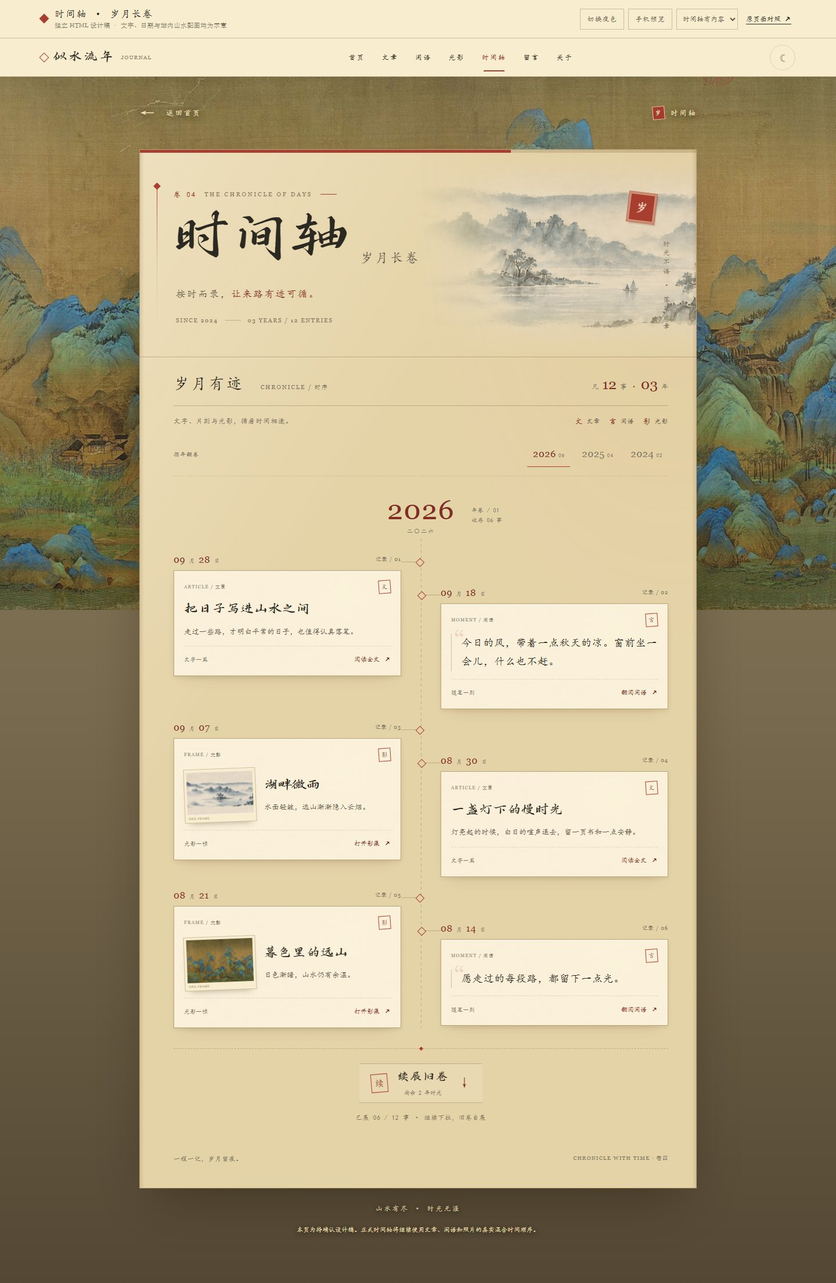
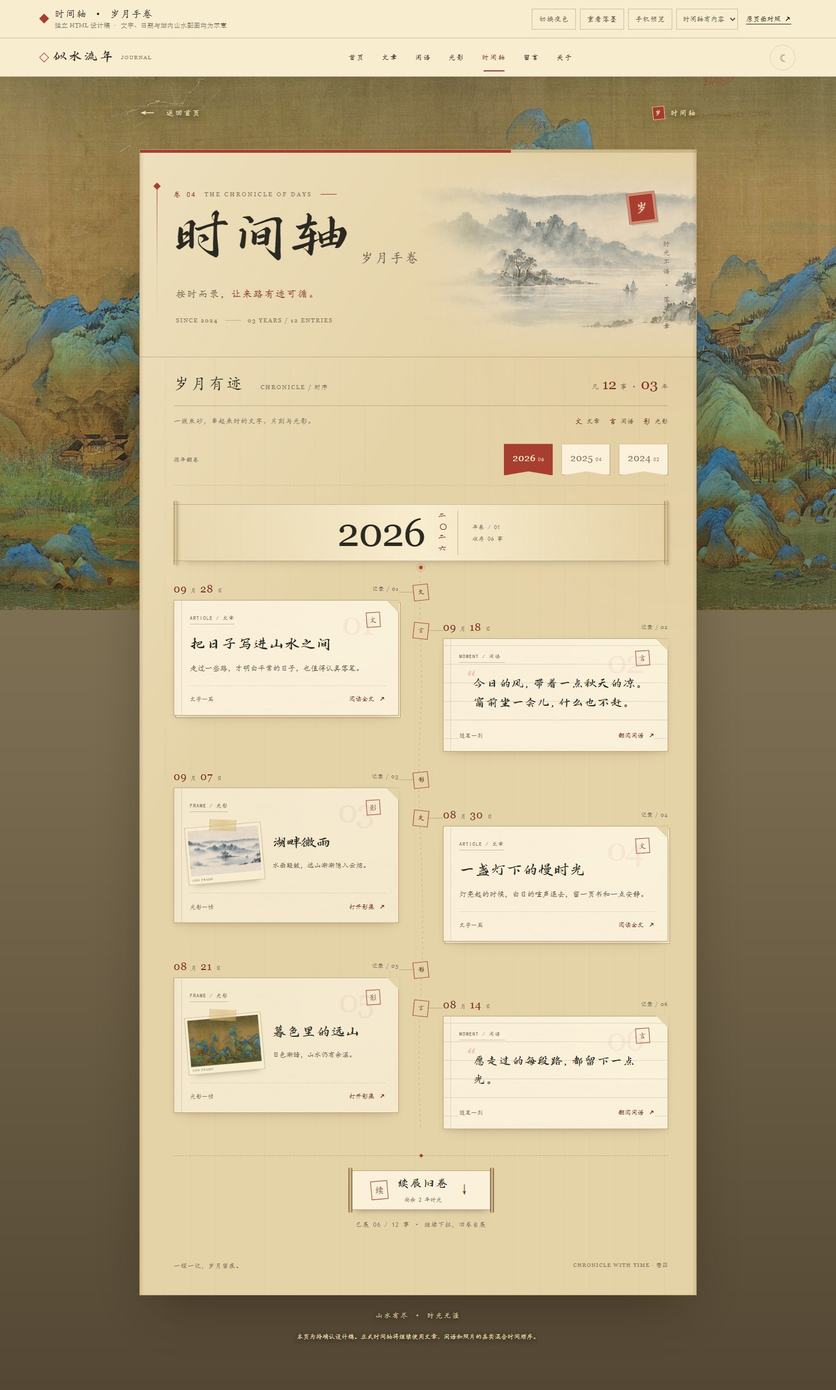
design(timeline): craft animated years handscroll

diff --git a/effect-preview/timeline-years-scroll-v1.html b/effect-preview/timeline-years-scroll-v1.html
@@ -1,5 +1,5 @@
 <!doctype html>
-<html lang="zh-CN" data-theme="light"><head><meta charset="utf-8"><meta name="viewport" content="width=device-width,initial-scale=1"><title>时间轴 · 岁月长卷设计稿</title><link rel="icon" href="data:,"><style>
+<html lang="zh-CN" data-theme="light"><head><meta charset="utf-8"><meta name="viewport" content="width=device-width,initial-scale=1"><title>时间轴 · 岁月手卷设计稿</title><link rel="icon" href="data:,"><style>
 
     @import url("../public/fonts/hongleixingshu/font.css");
     :root {
@@ -261,17 +261,123 @@ dialog {border:0;}
  .lightbox {padding:12px 15px max(18px,env(safe-area-inset-bottom));}.lightbox-view {padding:20px 0;}.lightbox-bottom {align-items:flex-start;flex-direction:column;gap:12px;}.lightbox-step {align-self:center;}.lightbox-caption {font-size:13px;}
 }
 @media (prefers-reduced-motion:reduce) {html {scroll-behavior:auto;}*,*::before,*::after {transition:none!important;animation:none!important;}.photo-open:hover {transform:rotate(-3deg);}}
-</style></head><body><div class="preview-bar"><div class="preview-title"><span class="preview-mark" aria-hidden="true"></span><div><strong>时间轴 · 岁月长卷</strong><small>独立 HTML 设计稿 · 文字、日期与站内山水配图均为示意</small></div></div><div class="preview-controls" aria-label="设计稿查看工具"><button id="theme-button" type="button" aria-pressed="false">切换夜色</button><button id="size-button" type="button" aria-pressed="false">手机预览</button><label class="sr-only" for="state-select">演示页面状态</label><select id="state-select"><option value="ready">时间轴有内容</option><option value="empty">整页无记录</option><option value="error">首次载入失败</option><option value="loading">正在整理时序</option><option value="more-loading">旧卷展开中</option><option value="broken">图片加载失败</option></select><a href="screenshots/timeline-before-desktop.jpg" target="_blank" rel="noopener">原页面对照 ↗</a></div></div>
+/* 岁月手卷：纸页、手札与夹藏相纸，共用年卷与朱砂线。 */
+.hero {overflow:hidden;}
+.hero-copy {animation:hero-settle 1s var(--ease) both;}
+.hero-art {animation:mountain-unroll 1.6s var(--ease) both;}
+.hero-stamp {animation:stamp-fall 1.1s var(--ease) both;}
+@keyframes hero-settle {from {opacity:0;transform:translateY(18px);}to {opacity:1;transform:none;}}
+@keyframes mountain-unroll {from {opacity:0;clip-path:inset(0 100% 0 0);}to {opacity:.65;clip-path:inset(0);}}
+@keyframes stamp-fall {0%,48% {opacity:0;transform:rotate(-11deg) scale(1.3);}70% {opacity:1;transform:rotate(-7deg) scale(.94);}100% {opacity:1;transform:rotate(-7deg) scale(1);}}
+.collection {background:linear-gradient(90deg,#7654280a 1px,transparent 1px) 0 0/43px 100%;}
+.year-index {padding-top:4px;padding-bottom:17px;gap:15px;}
+.year-index button {position:relative;padding:12px 14px 17px;min-width:84px;min-height:54px;background:var(--record-paper);border:1px solid var(--record-border);box-shadow:0 5px 9px -7px #2b201ab3;clip-path:polygon(0 0,100% 0,100% 100%,50% calc(100% - 7px),0 100%);transition:transform .4s var(--ease),background .4s,color .4s;}
+.year-index button[aria-current="true"] {background:var(--seal);color:#fff0d2;border-color:var(--seal);}
+.year-index button[aria-current="true"] small {color:#fff0d2;opacity:.8;}
+.year-index button:hover {transform:translateY(-4px);}
+.chronicle {--ink-progress:0;--ink-length:0px;--thread-top:138px;padding-top:32px;}
+.chronicle::before {display:none;}
+.ink-thread {position:absolute;left:calc(50% - 34px);top:var(--thread-top);width:68px;height:calc(100% - var(--thread-top));overflow:visible;pointer-events:none;z-index:-1;}
+.ink-thread path {fill:none;vector-effect:non-scaling-stroke;}
+.thread-base {stroke:var(--line);stroke-width:1;stroke-dasharray:3 6;}
+.thread-ink {stroke:var(--seal);stroke-width:1.7;stroke-dasharray:1;stroke-dashoffset:calc(1 - var(--ink-progress));opacity:.65;}
+.ink-pearl {position:absolute;left:calc(50% - 3px);top:calc(var(--thread-top) + var(--ink-length));width:6px;height:6px;background:var(--seal);box-shadow:0 0 0 5px color-mix(in srgb,var(--seal) 9%,transparent);border-radius:50%;pointer-events:none;z-index:0;}
+.year-group {margin-bottom:45px;}
+.year-heading {isolation:isolate;justify-content:center;gap:0;min-height:98px;margin-bottom:37px;border-top:1px solid var(--line);border-bottom:1px solid var(--line);background:linear-gradient(90deg,transparent,var(--paper-bright),transparent);box-shadow:0 9px 19px -19px #302719;}
+.year-heading::before,.year-heading::after {position:absolute;top:-7px;bottom:-7px;width:7px;content:"";background:linear-gradient(90deg,#71552f80,#d6ba8070,#71552f65);border-radius:2px;box-shadow:2px 2px 4px #382c2426;}
+.year-heading::before {left:0;}.year-heading::after {right:0;}
+.year-heading .year-number {flex-direction:row;gap:19px;background:transparent;padding:5px 18px;}
+.year-heading b {font-size:68px;letter-spacing:-.02em;color:var(--ink);}
+.year-heading small {writing-mode:vertical-rl;font:14px/1.4 var(--brush);color:var(--seal-dark);letter-spacing:.17em;margin:0;padding-right:18px;border-right:1px solid var(--line);}
+.year-heading .year-note {position:static;font:10px/2 var(--kai);margin:0 20px 0 6px;}
+.year-heading::selection {background:var(--seal);}
+.events {grid-template-columns:minmax(0,1fr) 76px minmax(0,1fr);gap:32px 0;}
+.entry:nth-child(even) {margin-top:66px;}
+.entry::after {display:none;}
+.entry::before {right:-38px;width:38px;top:16px;transform-origin:right;transition:background .4s;}
+.entry:nth-child(even)::before {left:-38px;}
+.axis-mark {position:absolute;right:-51px;top:3px;display:grid;place-items:center;width:26px;height:28px;background:var(--paper);border:1px solid var(--seal);color:var(--seal-dark);font:12px var(--brush);transform:rotate(-6deg);z-index:2;transition:transform .55s var(--ease),background .4s,color .4s,box-shadow .4s;}
+.entry:nth-child(even) .axis-mark {right:auto;left:-51px;transform:rotate(6deg);}
+.axis-mark::after {position:absolute;inset:-1px;content:"";border:1px solid var(--seal);opacity:0;pointer-events:none;}
+.entry.ink-read .axis-mark {background:var(--seal);color:#fff0d2;}
+.record {padding:20px 22px 12px 27px;border-color:var(--record-border);transform-origin:center;transition:transform .55s var(--ease),box-shadow .55s,border-color .35s;}
+.record::after {position:absolute;top:0;left:12px;bottom:0;width:1px;content:"";background:var(--line-soft);pointer-events:none;}
+.record::before {opacity:.23;background:radial-gradient(ellipse 180px 160px at var(--mx,80%) var(--my,20%),var(--card-spot),transparent 75%),linear-gradient(90deg,#6a47231c,transparent 13px),var(--fiber);background-size:auto,auto,220px auto;}
+.record-kicker {position:relative;z-index:1;margin-bottom:14px;align-items:center;min-height:24px;}
+.record-kicker > span {font:9px var(--kai);letter-spacing:.13em;padding-bottom:5px;border-bottom:1px solid var(--line);}
+.record-kicker i {width:24px;height:26px;font-size:13px;margin-right:9px;}
+.record-ordinal {position:absolute;right:44px;top:6px;font:58px Georgia,serif;letter-spacing:-.06em;color:var(--seal);opacity:.055;pointer-events:none;}
+.paper-corner {position:absolute;right:-1px;top:-1px;width:21px;height:21px;background:linear-gradient(225deg,var(--paper) 48%,var(--record-border) 49%,var(--paper-bright) 52%,var(--paper-deep) 90%);clip-path:polygon(0 0,100% 100%,100% 0);z-index:2;transition:width .5s var(--ease),height .5s var(--ease),filter .5s;pointer-events:none;}
+.record h3 {font-size:27px;line-height:1.35;}
+.record p {font-size:13px;line-height:1.9;}
+.record-foot {margin-top:16px;}
+.entry-post .record {box-shadow:var(--record-shadow),3px 4px 0 -1px var(--paper-bright),3px 4px 0 var(--record-border);}
+.entry-post .record-body {padding-right:7px;}
+.entry-moment .record {background-image:repeating-linear-gradient(0deg,transparent 0 31px,var(--line-soft) 31px 32px);background-position:0 10px;}
+.entry-moment .record-kicker > span {background:var(--record-paper);padding-right:8px;}
+.moment-quote {border:0;padding:3px 0 7px 24px;}
+.moment-quote::before {top:-14px;left:-7px;z-index:0;font:57px var(--brush);opacity:.22;}
+.record .moment-quote p {position:relative;font:21px/1.55 var(--brush);letter-spacing:.08em;}
+.entry-moment .record-foot {border:0;background:var(--record-paper);margin-top:9px;padding-top:7px;}
+.entry-photo .record {background:color-mix(in srgb,var(--record-paper) 82%,var(--paper-deep));}
+.photo-open {width:132px;margin:3px 2px 2px -6px;transform:rotate(-5deg);}
+.photo-open::before {position:absolute;left:calc(50% - 22px);top:-10px;width:44px;height:19px;content:"";background:linear-gradient(90deg,#d5b87970,#d5b879a0,#d5b87970);border-left:1px dashed #96734460;border-right:1px dashed #96734460;transform:rotate(7deg);z-index:1;pointer-events:none;}
+.entry-photo .record h3 {font-size:25px;}.entry-photo .record p {font-size:12px;}
+.entry-meta time {font-size:18px;}.entry-meta > span {letter-spacing:.15em;}
+.unfold-button {position:relative;min-width:245px;background:var(--record-paper);border:1px solid var(--record-border);box-shadow:0 8px 12px -10px #2b201a90;}
+.unfold-button::before,.unfold-button::after {position:absolute;top:-6px;bottom:-6px;content:"";width:7px;border-radius:3px;background:linear-gradient(90deg,#785d35,#dec598,#785d35);}
+.unfold-button::before {left:-4px;}.unfold-button::after {right:-4px;}
+.unfold-button:hover .unfold-arrow {animation:unfold-tug 1s var(--ease) 2;}
+@keyframes unfold-tug {50% {transform:translateY(6px);}}
+.entry.ink-reveal {animation:paper-arrive .8s var(--ease) both;}
+@keyframes paper-arrive {from {opacity:0;transform:perspective(900px) translateY(28px) rotateX(-9deg);clip-path:inset(0 0 22% 0);}to {opacity:1;transform:none;clip-path:inset(0);}}
+.entry:focus-within .axis-mark {background:var(--seal);color:#fff0d2;transform:rotate(0deg);box-shadow:0 0 0 5px color-mix(in srgb,var(--seal) 10%,transparent);}
+.entry:focus-within .record-kicker i {color:#fff0d2;}
+.entry:focus-within .paper-corner {width:33px;height:33px;}
+@media (hover:hover) and (pointer:fine) {
+ .entry:hover .record {transform:perspective(1000px) translateY(-6px) rotateX(var(--rx,0deg)) rotateY(var(--ry,0deg));box-shadow:0 18px 25px -13px #33231159,3px 5px 0 -1px var(--paper-bright),3px 5px 0 var(--record-border);}
+ .entry:hover .axis-mark {background:var(--seal);color:#fff0d2;transform:rotate(0deg) scale(1.06);box-shadow:0 0 0 5px color-mix(in srgb,var(--seal) 10%,transparent);}
+ .entry:hover .record-kicker i {color:#fff0d2;}
+ .entry:hover .axis-mark::after {animation:seal-ripple .8s ease-out;}
+ .entry:hover::before {background:var(--seal);}
+ .entry:hover .paper-corner {width:38px;height:38px;filter:drop-shadow(-2px 3px 2px #54381326);}
+ .photo-open:hover {transform:translateY(-4px) rotate(1deg) scale(1.04);}
+ @keyframes seal-ripple {from {opacity:.55;transform:scale(.9);}to {opacity:0;transform:scale(2);}}
+}
+@container (max-width:850px) {
+ .events {padding-left:48px;}.entry,.entry:nth-child(even) {margin:0 0 32px;}
+ .ink-thread {left:-21px;}.ink-pearl {left:10px;}
+ .entry::before,.entry:nth-child(even)::before {left:-35px;width:35px;}
+ .axis-mark,.entry:nth-child(even) .axis-mark {right:auto;left:-48px;}
+ .year-heading {margin-left:0;justify-content:flex-start;}.year-heading .year-number {padding-left:22px;}
+ .photo-open {width:160px;}
+}
+@container (max-width:550px) {
+ .hero-art {animation-name:mountain-mobile;}
+ .year-index {gap:8px;}.year-index > span {width:100%;}.year-index button {min-width:70px;min-height:50px;padding:10px 10px 17px;}
+ .chronicle {--thread-top:125px;padding-top:28px;}.year-heading {min-height:83px;margin-bottom:30px;}.year-heading b {font-size:51px;}.year-heading small {font-size:12px;padding-right:12px;}.year-heading .year-number {gap:12px;padding-left:17px;}.year-heading .year-note {font-size:9px;margin-left:0;margin-right:8px;}
+ .events {padding-left:26px;}.entry,.entry:nth-child(even) {margin-bottom:30px;}.ink-thread {left:-29px;}.ink-pearl {left:2px;}
+ .entry::before,.entry:nth-child(even)::before {left:-21px;width:21px;top:14px;}.axis-mark,.entry:nth-child(even) .axis-mark {left:-30px;top:5px;width:19px;height:21px;font-size:10px;}
+ .entry-meta time {font-size:16px;}.record {padding:17px 16px 10px 22px;}.record::after {left:9px;}.record h3 {font-size:25px;}.record-kicker > span {font-size:8px;}.record-kicker i {width:22px;height:24px;margin-right:7px;}.record-ordinal {font-size:50px;}
+ .record .moment-quote p {font-size:22px;line-height:1.6;}.moment-quote {padding-left:18px;}.record-foot {margin-top:12px;}
+ .photo-open {width:calc(100% - 6px);margin:4px 0 0 3px;transform:rotate(-3deg);}.entry-photo .record h3 {font-size:25px;}
+ .unfold-button {min-width:220px;}.unfold-hint {letter-spacing:.02em;}
+}
+@keyframes mountain-mobile {from {opacity:0;clip-path:inset(0 100% 0 0);}to {opacity:.36;clip-path:inset(0);}}
+@media (prefers-reduced-motion:reduce) {
+ .hero-copy,.hero-art,.hero-stamp {animation:none;}.entry:hover .record {transform:none;}.entry:hover .axis-mark {transform:none;}.photo-open:hover {transform:rotate(-3deg);}
+}
+</style></head><body><div class="preview-bar"><div class="preview-title"><span class="preview-mark" aria-hidden="true"></span><div><strong>时间轴 · 岁月手卷</strong><small>独立 HTML 设计稿 · 文字、日期与站内山水配图均为示意</small></div></div><div class="preview-controls" aria-label="设计稿查看工具"><button id="theme-button" type="button" aria-pressed="false">切换夜色</button><button id="replay-button" type="button">重看落墨</button><button id="size-button" type="button" aria-pressed="false">手机预览</button><label class="sr-only" for="state-select">演示页面状态</label><select id="state-select"><option value="ready">时间轴有内容</option><option value="empty">整页无记录</option><option value="error">首次载入失败</option><option value="loading">正在整理时序</option><option value="more-loading">旧卷展开中</option><option value="broken">图片加载失败</option></select><a href="screenshots/timeline-before-desktop.jpg" target="_blank" rel="noopener">原页面对照 ↗</a></div></div>
 <div class="sr-only" role="status" aria-live="polite" id="preview-status"></div>
 <div class="preview-stage" id="preview-stage"><div class="canvas">
 <nav class="site-nav" aria-label="主导航"><div class="nav-inner"><a class="brand" href="http://127.0.0.1:3015/"><span class="brand-mark" aria-hidden="true"></span><span class="brand-name">似水流年</span><small class="brand-en">JOURNAL</small></a><div class="nav-links" id="nav-links"><a href="http://127.0.0.1:3015/">首页</a><a href="posts-content-collection-v1.html">文章</a><a href="moments-content-notes-v1.html">闲语</a><a href="album-collected-light-v1.html">光影</a><a href="#collection" aria-current="page">时间轴</a><a href="guestbook-refinement-v1.html">留言</a><a href="about-scroll-unfold.html">关于</a></div><button class="nav-theme" id="nav-theme" type="button" aria-label="切换到夜色" aria-pressed="false">☾</button><button class="nav-menu" id="nav-menu" type="button" aria-expanded="false" aria-controls="nav-links" aria-label="展开导航">☰</button></div></nav>
 <main class="page-shell"><div class="subnav"><a href="http://127.0.0.1:3015/"><span class="back-arrow" aria-hidden="true">←</span>返回首页</a><span class="subnav-current"><i class="small-seal" aria-hidden="true">岁</i>时间轴</span></div>
-<section class="sheet" aria-labelledby="page-title"><div class="top-rule" aria-hidden="true"></div><header class="hero"><div class="hero-copy"><div class="hero-overline">卷 04 <small>THE CHRONICLE OF DAYS</small></div><h1 id="page-title"><span class="title">时间轴</span><span class="title-tail">岁月长卷</span></h1><p class="hero-intro">按时而录，<b>让来路有迹可循。</b></p><div class="hero-index"><span id="hero-since">SINCE 2024</span><i aria-hidden="true"></i><span id="hero-count">03 YEARS / 12 ENTRIES</span></div></div><div class="hero-art" aria-hidden="true"></div><span class="hero-stamp" aria-hidden="true">岁</span><span class="hero-aside" aria-hidden="true">时光不语 · 落笔成章</span></header>
+<section class="sheet" aria-labelledby="page-title"><div class="top-rule" aria-hidden="true"></div><header class="hero"><div class="hero-copy"><div class="hero-overline">卷 04 <small>THE CHRONICLE OF DAYS</small></div><h1 id="page-title"><span class="title">时间轴</span><span class="title-tail">岁月手卷</span></h1><p class="hero-intro">按时而录，<b>让来路有迹可循。</b></p><div class="hero-index"><span id="hero-since">SINCE 2024</span><i aria-hidden="true"></i><span id="hero-count">03 YEARS / 12 ENTRIES</span></div></div><div class="hero-art" aria-hidden="true"></div><span class="hero-stamp" aria-hidden="true">岁</span><span class="hero-aside" aria-hidden="true">时光不语 · 落笔成章</span></header>
 <div class="collection" id="collection">
 <div class="collection-heading"><h2>岁月有迹 <small>CHRONICLE / 时序</small></h2><span id="collection-count">凡 <b>12</b> 事 · <b>03</b> 年</span></div>
-<div class="collection-intro"><span>文字、片刻与光影，循着时间相逢。</span><div class="type-legend" aria-label="记录类型"><span><i aria-hidden="true">文</i>文章</span><span><i aria-hidden="true">言</i>闲语</span><span><i aria-hidden="true">影</i>光影</span></div></div>
+<div class="collection-intro"><span>一线朱砂，串起来时的文字、片刻与光影。</span><div class="type-legend" aria-label="记录类型"><span><i aria-hidden="true">文</i>文章</span><span><i aria-hidden="true">言</i>闲语</span><span><i aria-hidden="true">影</i>光影</span></div></div>
 <nav class="year-index" id="year-index" aria-label="年卷索引"><span>循年翻卷</span><button type="button" data-year="2026" aria-current="true" aria-controls="year-2026">2026<small>06</small></button><button type="button" data-year="2025" aria-controls="year-2025">2025<small>04</small></button><button type="button" data-year="2024" aria-controls="year-2024">2024<small>02</small></button></nav>
-<div class="chronicle" id="chronicle" aria-label="时间轴记录"><section class="year-group" data-year="2026" aria-labelledby="year-2026"><h2 class="year-heading" id="year-2026" tabindex="-1"><span class="year-number"><b>2026</b><small>二〇二六</small></span><span class="year-note">年卷 / 01<br>收存 06 事</span></h2><div class="events"><article class="entry entry-post" style="--row:1" data-date="2026-09-28"><div class="entry-meta"><time datetime="2026-09-28" aria-label="2026-09-28">09<small>月</small>28<small>日</small></time><span>记录 / 01</span></div><div class="record"><div class="record-kicker"><span>ARTICLE / 文章</span><i aria-hidden="true">文</i></div><div class="record-body"><div class="record-copy"><h3><a href="http://127.0.0.1:3015/posts/hello-world">把日子写进山水之间</a></h3><p>走过一些路，才明白平常的日子，也值得认真落笔。</p></div></div><div class="record-foot"><span>文字一篇</span><a href="http://127.0.0.1:3015/posts/hello-world">阅读全文<b aria-hidden="true">↗</b></a></div></div></article><article class="entry entry-moment" style="--row:1" data-date="2026-09-18"><div class="entry-meta"><time datetime="2026-09-18" aria-label="2026-09-18">09<small>月</small>18<small>日</small></time><span>记录 / 02</span></div><div class="record"><div class="record-kicker"><span>MOMENT / 闲语</span><i aria-hidden="true">言</i></div><div class="record-body"><div class="record-copy moment-quote"><p>今日的风，带着一点秋天的凉。窗前坐一会儿，什么也不赶。</p></div></div><div class="record-foot"><span>随笔一则</span><a href="http://127.0.0.1:3015/moments">翻阅闲语<b aria-hidden="true">↗</b></a></div></div></article><article class="entry entry-photo" style="--row:2" data-date="2026-09-07"><div class="entry-meta"><time datetime="2026-09-07" aria-label="2026-09-07">09<small>月</small>07<small>日</small></time><span>记录 / 03</span></div><div class="record"><div class="record-kicker"><span>FRAME / 光影</span><i aria-hidden="true">影</i></div><div class="record-body"><button class="photo-open" type="button" aria-label="查看原幅：湖畔微雨" data-caption="湖畔微雨" data-date="2026-09-07"><img src="../public/bg/about-ink-banner.png" alt="湖畔微雨" loading="lazy"><span class="image-fallback" role="img" aria-label="照片暂缺" hidden>影</span></button><div class="record-copy"><h3><a href="http://127.0.0.1:3015/album">湖畔微雨</a></h3><p>水面轻皱，远山渐渐隐入云烟。</p></div></div><div class="record-foot"><span>光影一帧</span><a href="http://127.0.0.1:3015/album">打开影集<b aria-hidden="true">↗</b></a></div></div></article><article class="entry entry-post" style="--row:2" data-date="2026-08-30"><div class="entry-meta"><time datetime="2026-08-30" aria-label="2026-08-30">08<small>月</small>30<small>日</small></time><span>记录 / 04</span></div><div class="record"><div class="record-kicker"><span>ARTICLE / 文章</span><i aria-hidden="true">文</i></div><div class="record-body"><div class="record-copy"><h3><a href="http://127.0.0.1:3015/posts/midnight-study">一盏灯下的慢时光</a></h3><p>灯亮起的时候，白日的喧声退去，留一页书和一点安静。</p></div></div><div class="record-foot"><span>文字一篇</span><a href="http://127.0.0.1:3015/posts/midnight-study">阅读全文<b aria-hidden="true">↗</b></a></div></div></article><article class="entry entry-photo" style="--row:3" data-date="2026-08-21"><div class="entry-meta"><time datetime="2026-08-21" aria-label="2026-08-21">08<small>月</small>21<small>日</small></time><span>记录 / 05</span></div><div class="record"><div class="record-kicker"><span>FRAME / 光影</span><i aria-hidden="true">影</i></div><div class="record-body"><button class="photo-open" type="button" aria-label="查看原幅：暮色里的远山" data-caption="暮色里的远山" data-date="2026-08-21"><img src="../public/bg/qianli-bridge.jpg" alt="暮色里的远山" loading="lazy"><span class="image-fallback" role="img" aria-label="照片暂缺" hidden>影</span></button><div class="record-copy"><h3><a href="http://127.0.0.1:3015/album">暮色里的远山</a></h3><p>日色渐暗，山水仍有余温。</p></div></div><div class="record-foot"><span>光影一帧</span><a href="http://127.0.0.1:3015/album">打开影集<b aria-hidden="true">↗</b></a></div></div></article><article class="entry entry-moment" style="--row:3" data-date="2026-08-14"><div class="entry-meta"><time datetime="2026-08-14" aria-label="2026-08-14">08<small>月</small>14<small>日</small></time><span>记录 / 06</span></div><div class="record"><div class="record-kicker"><span>MOMENT / 闲语</span><i aria-hidden="true">言</i></div><div class="record-body"><div class="record-copy moment-quote"><p>愿走过的每段路，都留下一点光。</p></div></div><div class="record-foot"><span>随笔一则</span><a href="http://127.0.0.1:3015/moments">翻阅闲语<b aria-hidden="true">↗</b></a></div></div></article></div></section><section class="year-group" data-year="2025" aria-labelledby="year-2025" hidden><h2 class="year-heading" id="year-2025" tabindex="-1"><span class="year-number"><b>2025</b><small>二〇二五</small></span><span class="year-note">年卷 / 02<br>收存 04 事</span></h2><div class="events"><article class="entry entry-post" style="--row:1" data-date="2025-12-12"><div class="entry-meta"><time datetime="2025-12-12" aria-label="2025-12-12">12<small>月</small>12<small>日</small></time><span>记录 / 01</span></div><div class="record"><div class="record-kicker"><span>ARTICLE / 文章</span><i aria-hidden="true">文</i></div><div class="record-body"><div class="record-copy"><h3><a href="http://127.0.0.1:3015/posts/write-something">写点什么，便有了来处</a></h3><p>把那些细小却不愿忘记的时刻，安放在自己的屋檐下。</p></div></div><div class="record-foot"><span>文字一篇</span><a href="http://127.0.0.1:3015/posts/write-something">阅读全文<b aria-hidden="true">↗</b></a></div></div></article><article class="entry entry-moment" style="--row:1" data-date="2025-10-06"><div class="entry-meta"><time datetime="2025-10-06" aria-label="2025-10-06">10<small>月</small>06<small>日</small></time><span>记录 / 02</span></div><div class="record"><div class="record-kicker"><span>MOMENT / 闲语</span><i aria-hidden="true">言</i></div><div class="record-body"><div class="record-copy moment-quote"><p>入秋了。路边的树，慢慢换上一身温柔的颜色。</p></div></div><div class="record-foot"><span>随笔一则</span><a href="http://127.0.0.1:3015/moments">翻阅闲语<b aria-hidden="true">↗</b></a></div></div></article><article class="entry entry-photo" style="--row:2" data-date="2025-08-16"><div class="entry-meta"><time datetime="2025-08-16" aria-label="2025-08-16">08<small>月</small>16<small>日</small></time><span>记录 / 03</span></div><div class="record"><div class="record-kicker"><span>FRAME / 光影</span><i aria-hidden="true">影</i></div><div class="record-body"><button class="photo-open" type="button" aria-label="查看原幅：溪山清远" data-caption="溪山清远" data-date="2025-08-16"><img src="../public/bg/guestbook-ink-banner.webp" alt="溪山清远" loading="lazy"><span class="image-fallback" role="img" aria-label="照片暂缺" hidden>影</span></button><div class="record-copy"><h3><a href="http://127.0.0.1:3015/album">溪山清远</a></h3><p>沿着一条小径，听水声走远。</p></div></div><div class="record-foot"><span>光影一帧</span><a href="http://127.0.0.1:3015/album">打开影集<b aria-hidden="true">↗</b></a></div></div></article><article class="entry entry-post" style="--row:2" data-date="2025-04-02"><div class="entry-meta"><time datetime="2025-04-02" aria-label="2025-04-02">04<small>月</small>02<small>日</small></time><span>记录 / 04</span></div><div class="record"><div class="record-kicker"><span>ARTICLE / 文章</span><i aria-hidden="true">文</i></div><div class="record-body"><div class="record-copy"><h3><a href="http://127.0.0.1:3015/posts/photography-moment">摄影是停下来的那一秒</a></h3><p>重要的是那一秒你在场，并且愿意停下来。</p></div></div><div class="record-foot"><span>文字一篇</span><a href="http://127.0.0.1:3015/posts/photography-moment">阅读全文<b aria-hidden="true">↗</b></a></div></div></article></div></section><section class="year-group" data-year="2024" aria-labelledby="year-2024" hidden><h2 class="year-heading" id="year-2024" tabindex="-1"><span class="year-number"><b>2024</b><small>二〇二四</small></span><span class="year-note">年卷 / 03<br>收存 02 事</span></h2><div class="events"><article class="entry entry-moment" style="--row:1" data-date="2024-11-19"><div class="entry-meta"><time datetime="2024-11-19" aria-label="2024-11-19">11<small>月</small>19<small>日</small></time><span>记录 / 01</span></div><div class="record"><div class="record-kicker"><span>MOMENT / 闲语</span><i aria-hidden="true">言</i></div><div class="record-body"><div class="record-copy moment-quote"><p>从这里开始，试着给每一个普通的日子留一点痕迹。</p></div></div><div class="record-foot"><span>随笔一则</span><a href="http://127.0.0.1:3015/moments">翻阅闲语<b aria-hidden="true">↗</b></a></div></div></article><article class="entry entry-photo" style="--row:1" data-date="2024-06-08"><div class="entry-meta"><time datetime="2024-06-08" aria-label="2024-06-08">06<small>月</small>08<small>日</small></time><span>记录 / 02</span></div><div class="record"><div class="record-kicker"><span>FRAME / 光影</span><i aria-hidden="true">影</i></div><div class="record-body"><button class="photo-open" type="button" aria-label="查看原幅：初见青绿" data-caption="初见青绿" data-date="2024-06-08"><img src="../public/bg/qianli-bridge.jpg" alt="初见青绿" loading="lazy"><span class="image-fallback" role="img" aria-label="照片暂缺" hidden>影</span></button><div class="record-copy"><h3><a href="http://127.0.0.1:3015/album">初见青绿</a></h3><p>山河入镜，故事刚刚开始。</p></div></div><div class="record-foot"><span>光影一帧</span><a href="http://127.0.0.1:3015/album">打开影集<b aria-hidden="true">↗</b></a></div></div></article></div></section></div>
+<div class="chronicle" id="chronicle" aria-label="时间轴记录"><svg class="ink-thread" aria-hidden="true" viewBox="0 0 68 1000" preserveAspectRatio="none"><path class="thread-base" d="M34 0 C28 90 39 180 34 260 S30 420 34 500 S38 690 34 760 S29 920 34 1000"/><path class="thread-ink" pathLength="1" d="M34 0 C28 90 39 180 34 260 S30 420 34 500 S38 690 34 760 S29 920 34 1000"/></svg><span class="ink-pearl" aria-hidden="true"></span><section class="year-group" data-year="2026" aria-labelledby="year-2026"><h2 class="year-heading" id="year-2026" tabindex="-1"><span class="year-number"><b>2026</b><small>二〇二六</small></span><span class="year-note">年卷 / 01<br>收存 06 事</span></h2><div class="events"><article class="entry entry-post" style="--row:1" data-date="2026-09-28"><span class="axis-mark" aria-hidden="true">文</span><div class="entry-meta"><time datetime="2026-09-28" aria-label="2026-09-28">09<small>月</small>28<small>日</small></time><span>记录 / 01</span></div><div class="record"><span class="paper-corner" aria-hidden="true"></span><span class="record-ordinal" aria-hidden="true">01</span><div class="record-kicker"><span>ARTICLE / 文章</span><i aria-hidden="true">文</i></div><div class="record-body"><div class="record-copy"><h3><a href="http://127.0.0.1:3015/posts/hello-world">把日子写进山水之间</a></h3><p>走过一些路，才明白平常的日子，也值得认真落笔。</p></div></div><div class="record-foot"><span>文字一篇</span><a href="http://127.0.0.1:3015/posts/hello-world">阅读全文<b aria-hidden="true">↗</b></a></div></div></article><article class="entry entry-moment" style="--row:1" data-date="2026-09-18"><span class="axis-mark" aria-hidden="true">言</span><div class="entry-meta"><time datetime="2026-09-18" aria-label="2026-09-18">09<small>月</small>18<small>日</small></time><span>记录 / 02</span></div><div class="record"><span class="paper-corner" aria-hidden="true"></span><span class="record-ordinal" aria-hidden="true">02</span><div class="record-kicker"><span>MOMENT / 闲语</span><i aria-hidden="true">言</i></div><div class="record-body"><div class="record-copy moment-quote"><p>今日的风，带着一点秋天的凉。窗前坐一会儿，什么也不赶。</p></div></div><div class="record-foot"><span>随笔一则</span><a href="http://127.0.0.1:3015/moments">翻阅闲语<b aria-hidden="true">↗</b></a></div></div></article><article class="entry entry-photo" style="--row:2" data-date="2026-09-07"><span class="axis-mark" aria-hidden="true">影</span><div class="entry-meta"><time datetime="2026-09-07" aria-label="2026-09-07">09<small>月</small>07<small>日</small></time><span>记录 / 03</span></div><div class="record"><span class="paper-corner" aria-hidden="true"></span><span class="record-ordinal" aria-hidden="true">03</span><div class="record-kicker"><span>FRAME / 光影</span><i aria-hidden="true">影</i></div><div class="record-body"><button class="photo-open" type="button" aria-label="查看原幅：湖畔微雨" data-caption="湖畔微雨" data-date="2026-09-07"><img src="../public/bg/about-ink-banner.png" alt="湖畔微雨" loading="lazy"><span class="image-fallback" role="img" aria-label="照片暂缺" hidden>影</span></button><div class="record-copy"><h3><a href="http://127.0.0.1:3015/album">湖畔微雨</a></h3><p>水面轻皱，远山渐渐隐入云烟。</p></div></div><div class="record-foot"><span>光影一帧</span><a href="http://127.0.0.1:3015/album">打开影集<b aria-hidden="true">↗</b></a></div></div></article><article class="entry entry-post" style="--row:2" data-date="2026-08-30"><span class="axis-mark" aria-hidden="true">文</span><div class="entry-meta"><time datetime="2026-08-30" aria-label="2026-08-30">08<small>月</small>30<small>日</small></time><span>记录 / 04</span></div><div class="record"><span class="paper-corner" aria-hidden="true"></span><span class="record-ordinal" aria-hidden="true">04</span><div class="record-kicker"><span>ARTICLE / 文章</span><i aria-hidden="true">文</i></div><div class="record-body"><div class="record-copy"><h3><a href="http://127.0.0.1:3015/posts/midnight-study">一盏灯下的慢时光</a></h3><p>灯亮起的时候，白日的喧声退去，留一页书和一点安静。</p></div></div><div class="record-foot"><span>文字一篇</span><a href="http://127.0.0.1:3015/posts/midnight-study">阅读全文<b aria-hidden="true">↗</b></a></div></div></article><article class="entry entry-photo" style="--row:3" data-date="2026-08-21"><span class="axis-mark" aria-hidden="true">影</span><div class="entry-meta"><time datetime="2026-08-21" aria-label="2026-08-21">08<small>月</small>21<small>日</small></time><span>记录 / 05</span></div><div class="record"><span class="paper-corner" aria-hidden="true"></span><span class="record-ordinal" aria-hidden="true">05</span><div class="record-kicker"><span>FRAME / 光影</span><i aria-hidden="true">影</i></div><div class="record-body"><button class="photo-open" type="button" aria-label="查看原幅：暮色里的远山" data-caption="暮色里的远山" data-date="2026-08-21"><img src="../public/bg/qianli-bridge.jpg" alt="暮色里的远山" loading="lazy"><span class="image-fallback" role="img" aria-label="照片暂缺" hidden>影</span></button><div class="record-copy"><h3><a href="http://127.0.0.1:3015/album">暮色里的远山</a></h3><p>日色渐暗，山水仍有余温。</p></div></div><div class="record-foot"><span>光影一帧</span><a href="http://127.0.0.1:3015/album">打开影集<b aria-hidden="true">↗</b></a></div></div></article><article class="entry entry-moment" style="--row:3" data-date="2026-08-14"><span class="axis-mark" aria-hidden="true">言</span><div class="entry-meta"><time datetime="2026-08-14" aria-label="2026-08-14">08<small>月</small>14<small>日</small></time><span>记录 / 06</span></div><div class="record"><span class="paper-corner" aria-hidden="true"></span><span class="record-ordinal" aria-hidden="true">06</span><div class="record-kicker"><span>MOMENT / 闲语</span><i aria-hidden="true">言</i></div><div class="record-body"><div class="record-copy moment-quote"><p>愿走过的每段路，都留下一点光。</p></div></div><div class="record-foot"><span>随笔一则</span><a href="http://127.0.0.1:3015/moments">翻阅闲语<b aria-hidden="true">↗</b></a></div></div></article></div></section><section class="year-group" data-year="2025" aria-labelledby="year-2025" hidden><h2 class="year-heading" id="year-2025" tabindex="-1"><span class="year-number"><b>2025</b><small>二〇二五</small></span><span class="year-note">年卷 / 02<br>收存 04 事</span></h2><div class="events"><article class="entry entry-post" style="--row:1" data-date="2025-12-12"><span class="axis-mark" aria-hidden="true">文</span><div class="entry-meta"><time datetime="2025-12-12" aria-label="2025-12-12">12<small>月</small>12<small>日</small></time><span>记录 / 01</span></div><div class="record"><span class="paper-corner" aria-hidden="true"></span><span class="record-ordinal" aria-hidden="true">01</span><div class="record-kicker"><span>ARTICLE / 文章</span><i aria-hidden="true">文</i></div><div class="record-body"><div class="record-copy"><h3><a href="http://127.0.0.1:3015/posts/write-something">写点什么，便有了来处</a></h3><p>把那些细小却不愿忘记的时刻，安放在自己的屋檐下。</p></div></div><div class="record-foot"><span>文字一篇</span><a href="http://127.0.0.1:3015/posts/write-something">阅读全文<b aria-hidden="true">↗</b></a></div></div></article><article class="entry entry-moment" style="--row:1" data-date="2025-10-06"><span class="axis-mark" aria-hidden="true">言</span><div class="entry-meta"><time datetime="2025-10-06" aria-label="2025-10-06">10<small>月</small>06<small>日</small></time><span>记录 / 02</span></div><div class="record"><span class="paper-corner" aria-hidden="true"></span><span class="record-ordinal" aria-hidden="true">02</span><div class="record-kicker"><span>MOMENT / 闲语</span><i aria-hidden="true">言</i></div><div class="record-body"><div class="record-copy moment-quote"><p>入秋了。路边的树，慢慢换上一身温柔的颜色。</p></div></div><div class="record-foot"><span>随笔一则</span><a href="http://127.0.0.1:3015/moments">翻阅闲语<b aria-hidden="true">↗</b></a></div></div></article><article class="entry entry-photo" style="--row:2" data-date="2025-08-16"><span class="axis-mark" aria-hidden="true">影</span><div class="entry-meta"><time datetime="2025-08-16" aria-label="2025-08-16">08<small>月</small>16<small>日</small></time><span>记录 / 03</span></div><div class="record"><span class="paper-corner" aria-hidden="true"></span><span class="record-ordinal" aria-hidden="true">03</span><div class="record-kicker"><span>FRAME / 光影</span><i aria-hidden="true">影</i></div><div class="record-body"><button class="photo-open" type="button" aria-label="查看原幅：溪山清远" data-caption="溪山清远" data-date="2025-08-16"><img src="../public/bg/guestbook-ink-banner.webp" alt="溪山清远" loading="lazy"><span class="image-fallback" role="img" aria-label="照片暂缺" hidden>影</span></button><div class="record-copy"><h3><a href="http://127.0.0.1:3015/album">溪山清远</a></h3><p>沿着一条小径，听水声走远。</p></div></div><div class="record-foot"><span>光影一帧</span><a href="http://127.0.0.1:3015/album">打开影集<b aria-hidden="true">↗</b></a></div></div></article><article class="entry entry-post" style="--row:2" data-date="2025-04-02"><span class="axis-mark" aria-hidden="true">文</span><div class="entry-meta"><time datetime="2025-04-02" aria-label="2025-04-02">04<small>月</small>02<small>日</small></time><span>记录 / 04</span></div><div class="record"><span class="paper-corner" aria-hidden="true"></span><span class="record-ordinal" aria-hidden="true">04</span><div class="record-kicker"><span>ARTICLE / 文章</span><i aria-hidden="true">文</i></div><div class="record-body"><div class="record-copy"><h3><a href="http://127.0.0.1:3015/posts/photography-moment">摄影是停下来的那一秒</a></h3><p>重要的是那一秒你在场，并且愿意停下来。</p></div></div><div class="record-foot"><span>文字一篇</span><a href="http://127.0.0.1:3015/posts/photography-moment">阅读全文<b aria-hidden="true">↗</b></a></div></div></article></div></section><section class="year-group" data-year="2024" aria-labelledby="year-2024" hidden><h2 class="year-heading" id="year-2024" tabindex="-1"><span class="year-number"><b>2024</b><small>二〇二四</small></span><span class="year-note">年卷 / 03<br>收存 02 事</span></h2><div class="events"><article class="entry entry-moment" style="--row:1" data-date="2024-11-19"><span class="axis-mark" aria-hidden="true">言</span><div class="entry-meta"><time datetime="2024-11-19" aria-label="2024-11-19">11<small>月</small>19<small>日</small></time><span>记录 / 01</span></div><div class="record"><span class="paper-corner" aria-hidden="true"></span><span class="record-ordinal" aria-hidden="true">01</span><div class="record-kicker"><span>MOMENT / 闲语</span><i aria-hidden="true">言</i></div><div class="record-body"><div class="record-copy moment-quote"><p>从这里开始，试着给每一个普通的日子留一点痕迹。</p></div></div><div class="record-foot"><span>随笔一则</span><a href="http://127.0.0.1:3015/moments">翻阅闲语<b aria-hidden="true">↗</b></a></div></div></article><article class="entry entry-photo" style="--row:1" data-date="2024-06-08"><span class="axis-mark" aria-hidden="true">影</span><div class="entry-meta"><time datetime="2024-06-08" aria-label="2024-06-08">06<small>月</small>08<small>日</small></time><span>记录 / 02</span></div><div class="record"><span class="paper-corner" aria-hidden="true"></span><span class="record-ordinal" aria-hidden="true">02</span><div class="record-kicker"><span>FRAME / 光影</span><i aria-hidden="true">影</i></div><div class="record-body"><button class="photo-open" type="button" aria-label="查看原幅：初见青绿" data-caption="初见青绿" data-date="2024-06-08"><img src="../public/bg/qianli-bridge.jpg" alt="初见青绿" loading="lazy"><span class="image-fallback" role="img" aria-label="照片暂缺" hidden>影</span></button><div class="record-copy"><h3><a href="http://127.0.0.1:3015/album">初见青绿</a></h3><p>山河入镜，故事刚刚开始。</p></div></div><div class="record-foot"><span>光影一帧</span><a href="http://127.0.0.1:3015/album">打开影集<b aria-hidden="true">↗</b></a></div></div></article></div></section></div>
 <div class="unfold-area" id="unfold-area"><button type="button" class="unfold-button" id="unfold-button" aria-controls="chronicle" aria-label="续展旧卷" aria-busy="false"><i aria-hidden="true">续</i><span><b>续展旧卷</b><small id="unfold-copy">尚余 2 年时光</small></span><span class="unfold-arrow" aria-hidden="true">↓</span></button><p class="unfold-hint" id="unfold-hint">已展 06 / 12 事 · 继续下拉，旧卷自展</p></div>
 <div class="end-note" id="end-note" role="status" aria-label="时间轴已到卷尾" tabindex="-1" hidden><i aria-hidden="true">卷尾</i>已阅尽这一卷的旧时光。</div>
 <div class="state" id="page-state" hidden></div>
@@ -294,11 +400,21 @@ dialog {border:0;}
   const announce = message => { $('preview-status').textContent = message; };
   const countVisible = () => groups.slice(0, shown).reduce((count, group) => count + group.querySelectorAll('.entry').length, 0);
   const markYear = year => yearButtons.forEach(button => { if (button.dataset.year === year) button.setAttribute('aria-current', 'true'); else button.removeAttribute('aria-current'); });
+  const paintInk = () => {
+    const chronicle = $('chronicle'), rect = chronicle.getBoundingClientRect();
+    const top = parseFloat(getComputedStyle(chronicle).getPropertyValue('--thread-top')) || 138;
+    const length = Math.max(1, rect.height - top);
+    const ink = reduced() ? length : Math.max(0, Math.min(length, innerHeight * .66 - rect.top - top));
+    chronicle.style.setProperty('--ink-progress', String(ink / length));
+    chronicle.style.setProperty('--ink-length', `${ink}px`);
+    entries.forEach(entry => entry.classList.toggle('ink-read', entry.getBoundingClientRect().top < innerHeight * .7));
+  };
   const updateYear = () => {
     scrollFrame = null;
     const visible = groups.slice(0, shown);
     const current = visible.filter(group => group.getBoundingClientRect().top < innerHeight * .35).at(-1) || visible[0];
     markYear(current.dataset.year);
+    paintInk();
   };
   const paintYears = () => {
     groups.forEach((group, index) => { group.hidden = index >= shown; });
@@ -337,6 +453,7 @@ dialog {border:0;}
     announce(`翻至 ${button.dataset.year} 年卷。`);
   }));
   addEventListener('scroll', () => { if (scrollFrame === null) scrollFrame = requestAnimationFrame(updateYear); }, {passive:true});
+  addEventListener('resize', () => { if (scrollFrame === null) scrollFrame = requestAnimationFrame(updateYear); }, {passive:true});
   addEventListener('wheel', event => {
     if (reduced() || shown >= groups.length || !['ready','broken'].includes(mode) || event.deltaY <= 0 || innerHeight + scrollY < document.documentElement.scrollHeight - 2) return;
     event.preventDefault(); if (busy) return;
@@ -348,14 +465,39 @@ dialog {border:0;}
 
   const spotFrames = new Map();
   document.querySelectorAll('.record').forEach(record => {
-    const clear = () => { if (spotFrames.has(record)) cancelAnimationFrame(spotFrames.get(record));spotFrames.delete(record);record.style.removeProperty('--mx');record.style.removeProperty('--my'); };
+    const clear = () => { if (spotFrames.has(record)) cancelAnimationFrame(spotFrames.get(record));spotFrames.delete(record);['--mx','--my','--rx','--ry'].forEach(name => record.style.removeProperty(name)); };
     record.addEventListener('pointermove', event => {
       if (event.pointerType === 'touch' || reduced() || !matchMedia('(hover:hover) and (pointer:fine)').matches) return;
       const rect = record.getBoundingClientRect(), x = event.clientX - rect.left, y = event.clientY - rect.top;
       if (spotFrames.has(record)) cancelAnimationFrame(spotFrames.get(record));
-      spotFrames.set(record, requestAnimationFrame(() => { record.style.setProperty('--mx',`${x}px`);record.style.setProperty('--my',`${y}px`);spotFrames.delete(record); }));
+      spotFrames.set(record, requestAnimationFrame(() => { record.style.setProperty('--mx',`${x}px`);record.style.setProperty('--my',`${y}px`);record.style.setProperty('--rx',`${(y / rect.height - .5) * -5}deg`);record.style.setProperty('--ry',`${(x / rect.width - .5) * 5}deg`);spotFrames.delete(record); }));
     });
     record.addEventListener('pointerleave', clear);record.addEventListener('pointercancel', clear);record.addEventListener('focusout', clear);
+  });
+  let arrivalObserver = null;
+  const observePaper = () => {
+    arrivalObserver?.disconnect();
+    if (reduced() || !('IntersectionObserver' in window)) return;
+    arrivalObserver = new IntersectionObserver(items => items.forEach(item => {
+      if (!item.isIntersecting) return;
+      const entry = item.target;
+      entry.classList.add('ink-reveal');
+      entry.addEventListener('animationend', function done(event) { if (event.target !== entry) return; entry.classList.remove('ink-reveal');entry.removeEventListener('animationend', done); });
+      arrivalObserver.unobserve(entry);
+    }), {threshold:.12});
+    entries.forEach(entry => arrivalObserver.observe(entry));
+  };
+  $('replay-button').addEventListener('click', () => {
+    document.querySelectorAll('.hero-copy,.hero-art,.hero-stamp').forEach(element => {
+      element.style.animation = 'none'; void element.offsetWidth; element.style.removeProperty('animation');
+    });
+    entries.forEach(entry => entry.classList.remove('ink-reveal'));
+    observePaper();announce(reduced() ? '已启用减少动态效果，设计稿保持静态。' : '已重播落墨与纸页展开效果。');
+  });
+  observePaper();
+  matchMedia('(prefers-reduced-motion:reduce)').addEventListener('change', () => {
+    entries.forEach(entry => entry.classList.remove('ink-reveal'));
+    observePaper();paintInk();
   });
   const paintPhoto = button => {
     const broken = mode === 'broken' || button.querySelector('img').dataset.failed === 'true';
@@ -431,7 +573,7 @@ dialog {border:0;}
   } catch { /* Preview still works without session storage. */ }
   paintYears();
   addEventListener('pagehide', () => {
-    clearTimeout(revealTimer);clearTimeout(wheelTimer);if (scrollFrame !== null) cancelAnimationFrame(scrollFrame);spotFrames.forEach(cancelAnimationFrame);spotFrames.clear();
+    arrivalObserver?.disconnect();clearTimeout(revealTimer);clearTimeout(wheelTimer);if (scrollFrame !== null) cancelAnimationFrame(scrollFrame);spotFrames.forEach(cancelAnimationFrame);spotFrames.clear();
     try { if (mode === 'ready') sessionStorage.setItem(storageKey,JSON.stringify({shown,scroll:scrollY})); } catch { /* Optional preview persistence. */ }
   });
 })();

diff --git a/effect-preview/timeline-years-scroll-v1.md b/effect-preview/timeline-years-scroll-v1.md
@@ -1,11 +1,11 @@
-# 时间轴前端设计方案 · 岁月长卷 v1
+# 时间轴前端设计方案 · 岁月手卷（修订版）
 
 本轮交付独立 HTML 设计图。正式 `/timeline` 等本页确认后再修改。
 
 - 设计图：[timeline-years-scroll-v1.html](timeline-years-scroll-v1.html)
 - 本地预览：<http://127.0.0.1:3016/effect-preview/timeline-years-scroll-v1.html>
 - 原页面：[桌面对照截图](screenshots/timeline-before-desktop.jpg)
-- 效果截图：[桌面日色](screenshots/timeline-design-desktop.jpg)、[手机日色](screenshots/timeline-design-mobile.jpg)、[桌面夜色](screenshots/timeline-design-dark.jpg)
+- 效果截图：[桌面日色](screenshots/timeline-design-desktop.jpg)、[手机日色](screenshots/timeline-design-mobile.jpg)、[桌面夜色](screenshots/timeline-design-dark.jpg)、[悬停纸页](screenshots/timeline-design-hover.jpg)
 
 ## 设计依据
 
@@ -18,21 +18,35 @@
 | 部分 | 设计 |
 | --- | --- |
 | 整体 | 原站青绿山水背景、960px 宣纸主体、书法标题和朱印；卷四朱线占纸宽 4/6 |
-| 题头 | “时间轴 · 岁月长卷”，右侧淡墨远山，保留题头与正文的横向分界 |
-| 年份 | 大号朱色年份与小型年卷说明，正文上方设置 2026/2025/2024 翻卷入口 |
-| 轴线 | 桌面中央细虚线、左右交错日期与菱形节点；窄屏收为左侧轴线 |
-| 文章 | 书法标题、短摘要、阅读入口；不强制卡片等高 |
-| 闲语 | 引文排法，按文字自然撑开，短句保留紧凑高度 |
-| 光影 | 小幅相纸缩略图与标题，手机照片放宽；可点图查看原幅 |
-| 类型识别 | 共用纸签结构，通过“文 / 言 / 影”小印章、明确的类型文字与内容排法区分 |
-| 悬停 | 纸面局部亮色、朱印填色、轴点亮起与箭头微移；键盘焦点也有可见反馈 |
-| 卷尾 | “续展旧卷”纸签、已展记录数；读完全部年份后显示明确卷尾 |
+| 题头 | “时间轴 · 岁月手卷”，远山由左向右舒展，岁字朱印随后落下 |
+| 年份 | 带两端卷轴的横向题签、墨色大年份与竖排书法年号；年份入口改为朱色书签 |
+| 轴线 | 桌面中央细曲线、左右交错日期，阅读时朱砂线循卷落墨；窄屏收为左侧轴线 |
+| 文章 | 书法标题、叠页边缘、书页边线和可翘起的折角；保留摘要和阅读入口 |
+| 闲语 | 横笺底纹与手写引文，按文字自然撑开；保留闲语入口 |
+| 光影 | 胶贴固定的小幅相纸与手写说明，手机照片放宽；可点图查看原幅 |
+| 类型识别 | 共用纸页骨架与混合时序，用“文 / 言 / 影”节点印章和内容细节区分 |
+| 悬停 | 纸页轻抬并随指针改变角度，折角翘起，节点印章填色晕开；相纸轻抬回正 |
+| 卷尾 | 带卷轴两端的“续展旧卷”入口与已展记录数；读完全部年份后显示明确卷尾 |
 
 ### 卡片与背景区分度调整
 
 根据“卡片和背景区分度太小”的反馈，日色底纸加深为 `#e5d3a8`，纸签采用独立的米白色 `#fbf1da` 与墨褐边框 `#bba67a`。增加浅落影和顶部纸边高光，降低卡片纹理叠加的浓度，让未悬停时也能看清卡片轮廓。夜色对应使用 `#322b23` 底纸、`#524534` 纸签与 `#81704e` 边框。调整只作用于设计稿，卡片尺寸和时间顺序保持原样；桌面、手机与夜色截图已更新。
 
-1440px 下本稿首年纸签实测约 149–210px 高。照片在手机上使用更宽的画幅，避免内容挤在狭窄的左右栏里。页面没有类型筛选，三类记录始终沿同一时间顺序阅读。
+1440px 下本稿首年纸页实测约 195–233px 高，没有强制等高。照片在手机上使用更宽的画幅，避免内容挤在狭窄的左右栏里。页面没有类型筛选，三类记录始终沿同一时间顺序阅读。
+
+## 特效与触发方式
+
+| 特效 | 触发 | 表现 |
+| --- | --- | --- |
+| 山水舒卷、落印 | 首次打开或“重看落墨” | 题头轻入场，远山展开后朱印落下，一次完成 |
+| 纸页舒展 | 记录第一次进入视野 | 纸页从下方舒展，之后静止，避免重复晃动 |
+| 朱砂落墨 | 阅读时滚动 | 沿略有起伏的轴线逐段绘制，已读节点填色；不是持续循环的光点 |
+| 纸角翻起 | 鼠标悬停纸页 | 折角由 21px 展至 38px，纸页抬起 6px；指针使纸面轻微倾斜 |
+| 印章晕开 | 鼠标悬停记录 | 节点印章回正、填色，短暂外扩的朱色轮廓消散 |
+| 相纸轻抬 | 鼠标悬停照片 | 胶贴相纸回正并轻微放大，可点击查看原幅 |
+| 旧卷自展 | 点击或文档底部继续下拉 | 展开下一年份，保留已有内容、焦点和阅读位置 |
+
+触屏不依赖悬停。键盘焦点保留可见的纸角与节点反馈。减少动态效果模式停用入场、纸面倾斜与循环加载动画，朱砂线完整静态显示，翻卷和照片预览仍可操作。顶部“重看落墨”仅用于设计稿演示。
 
 ## 可体验交互
 
@@ -64,6 +78,7 @@
 - 照片预览焦点循环、方向键、Escape、锁定背景滚动及关闭后焦点恢复通过。
 - 五种演示状态、重试、实际中断图片请求后的占位、手机导航、禁用 JavaScript 后全部记录可读通过。
 - 浏览器未捕获到页面脚本异常。桌面、手机和夜色截图随设计稿保留。
+- 修订后的动效检查通过：滚动时线条进度增加、指针使纸面倾斜、折角展开、移出后复位、重播有效，切换减少动态效果后保持静态。静态截图在有限动画完成后保存。
 
 仓库提交前闸门：`tsc --noEmit`、`next build` 通过（37 个页面生成成功）；`vitest run` 的 67 个文件、340 个断言通过，但有 5 个未处理异常，命令退出 1。异常均为既有首页 `DailyQuote.tsx:105` 的 `echo.animate is not a function`，不属于本次独立时间轴设计稿。本轮没有修改正式应用源码或测试源码，不将全量测试标记为通过。
 
